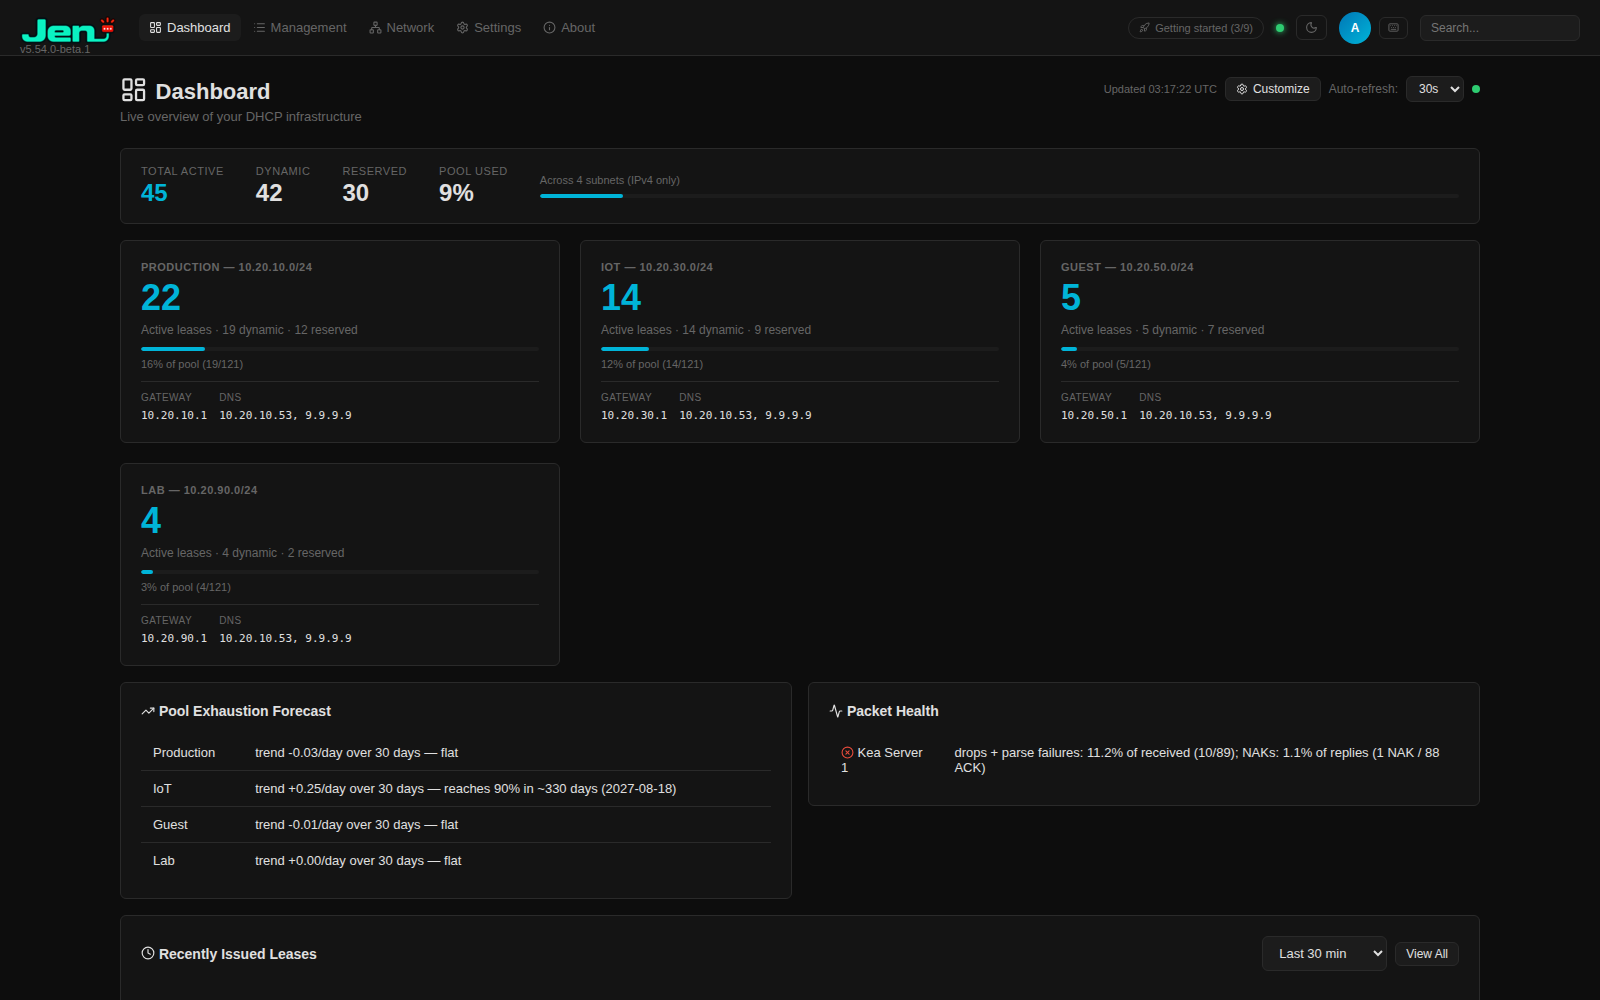
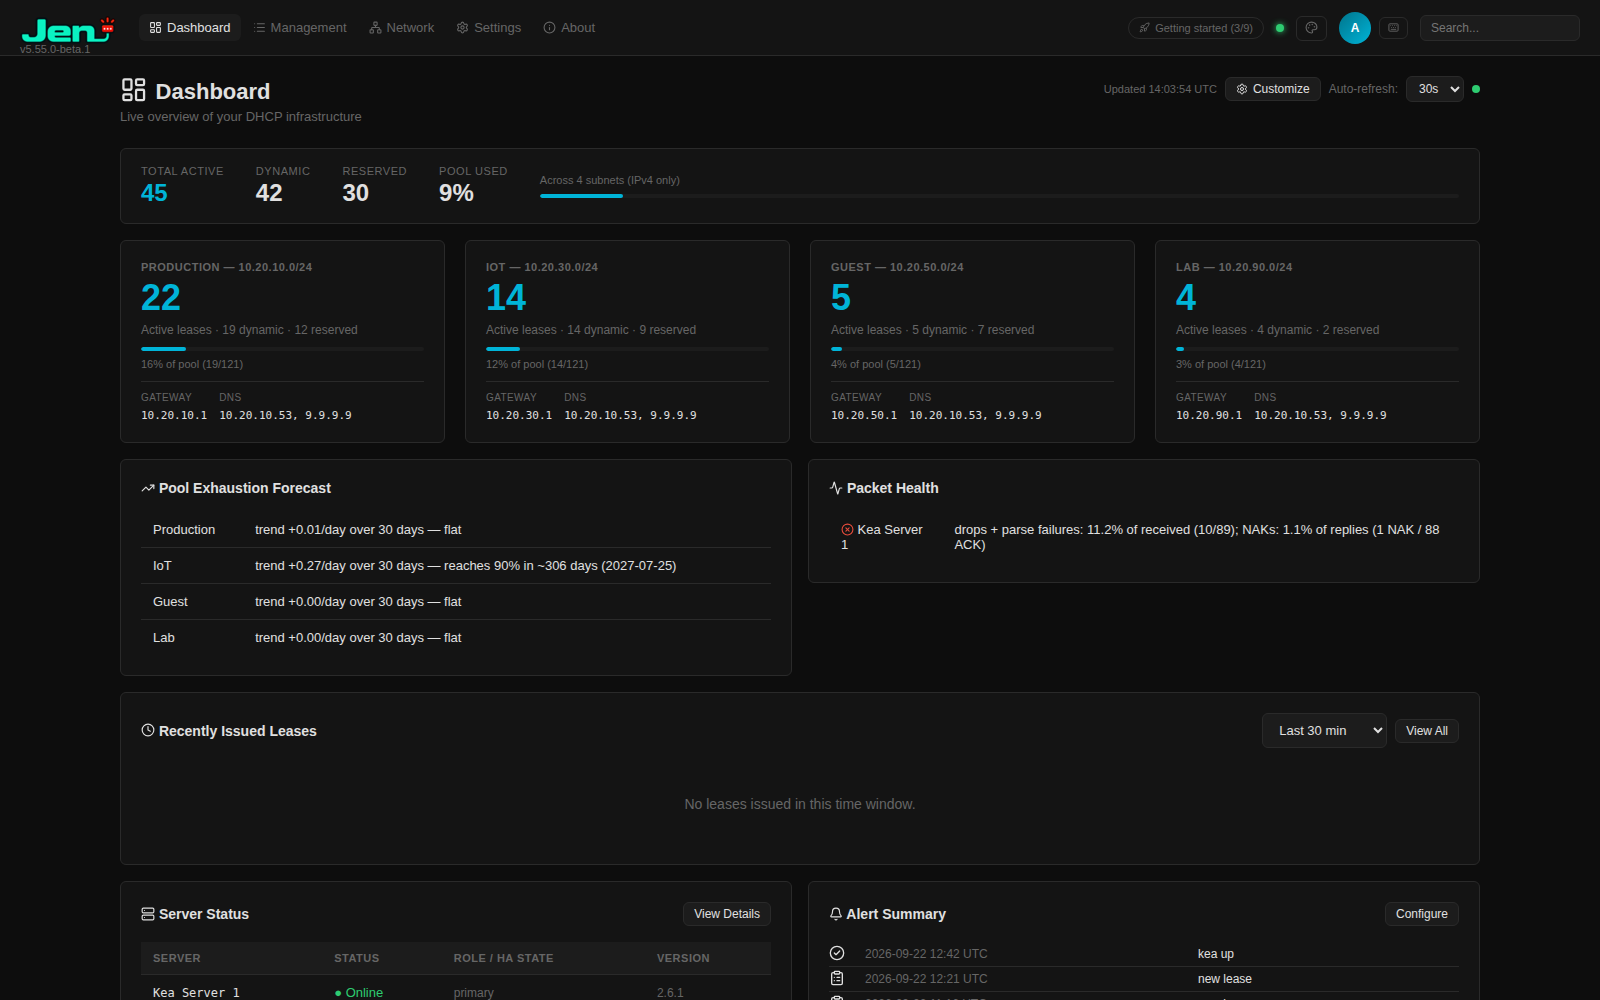
v5.55.1-beta.1: Q64 - the touch-navigation bug, the orphan subnet card, and three tidy-ups (beta channel)
Version bump for the code commit already on main (0d649a6 + fixup e51501a):
the deleted touchstart/touchend navigation block, .stat-grid widened from
minmax(340px) to minmax(300px), the Settings landing page's redundant
section strip hidden on a phone, the Subnets "New shared network" card as
a details/summary accordion, and the Dashboard Alert Summary's quieter
status column.

docs/images/dashboard.png refreshed from this push's docs-screenshots
artifact - confirmed visually (both the new and the previously-committed
image, side by side) that four subnet cards now share one row instead of
3+1, and that the Alert Summary's healthy rows no longer print a redundant
"ok" on every line. docs/images/reports.png is NOT touched: that
screenshot job scrolls to the IoT chart's trend-projection tail, well
below the per-subnet stat-grid at the top of the page, so the fix is
invisible in that specific frame in both the old and new capture -
confirmed by comparing them directly rather than assuming.

Six version spots + CHANGELOG heading via tools/bump_version.py, entry
verified against the real parser (tests/test_changelog.py, both pure and
the parse_changelog() call directly).

Next: Q65 PROMOTE, on the maintainer's word only.

diff --git a/jen/__init__.py b/jen/__init__.py
@@ -25,7 +25,7 @@ from jen.services import csrf as csrf_svc
 
 logger = logging.getLogger(__name__)
 
-JEN_VERSION = "5.55.0-beta.1"
+JEN_VERSION = "5.55.1-beta.1"
 
 # Cache ssl_configured result — cert files don't change at runtime
 _ssl_configured_cache: bool | None = None

diff --git a/CHANGELOG.md b/CHANGELOG.md
@@ -2,6 +2,40 @@
 
 *Detailed per-series notes for the 3.x line live in [docs/release-history/](docs/release-history/).*
 
+## [5.55.1-beta.1] - 2026-09-22
+
+Beta channel. Stacked on 5.55.0-beta.1. Q64: a touch-navigation bug the maintainer
+hit on an iPhone, the orphan subnet card, and three small tidy-ups from the same
+round of screenshots.
+
+**The bug.** Since v2.5.10, every link on every page has listened for touchstart,
+touchmove and touchend, and navigated on touchend unless the finger's movement
+looked like a horizontal swipe. A vertical scroll never sets that flag, so lifting
+a finger after scrolling past any link navigated to it — the maintainer hit this on
+the Settings page, where the tiles are full-width links and dragging to scroll from
+inside one opened it. The same block also silently broke iOS's long-press link
+preview and Android's link context menu, everywhere, the whole time. The block is
+gone. Nothing replaces it: normal click handling was always correct here, and has
+been since the viewport meta tag and `touch-action: manipulation` made the old
+300ms tap delay this was working around moot. Scrolling now behaves like scrolling,
+tapping still behaves like tapping, and long-press previews work again.
+
+**The orphan card.** The Dashboard's subnet grid and the Reports page's per-subnet
+grid used to fit three cards per row at a typical desktop width, so a fourth subnet
+always rendered alone on its own row with empty space beside it. Four now share one
+row; three or fewer still lay out the same as before.
+
+**Three smaller fixes.** The Settings home page showed the same seven destinations
+twice — once as a horizontal strip, once as cards right below it — the strip is now
+hidden on a phone, where the duplication was most obvious (desktop keeps it,
+since there's room). The Subnets page's "create a shared network" form now starts
+collapsed once an install already has at least one, rather than always sitting
+expanded at the bottom of the page; it still opens by default the first time, when
+there isn't one yet. The Dashboard's Alert Summary widget used to print "check ok"
+on every single healthy row — the exact same text, every time; now a healthy row is
+simply quiet, and only a failure gets a marked, colored chip, which is the row that
+actually needed attention in the first place.
+
 ## [5.55.0-beta.1] - 2026-09-22
 
 Beta channel. Stacked on 5.54.0-beta.1. Q63: a real theme system, not just the
